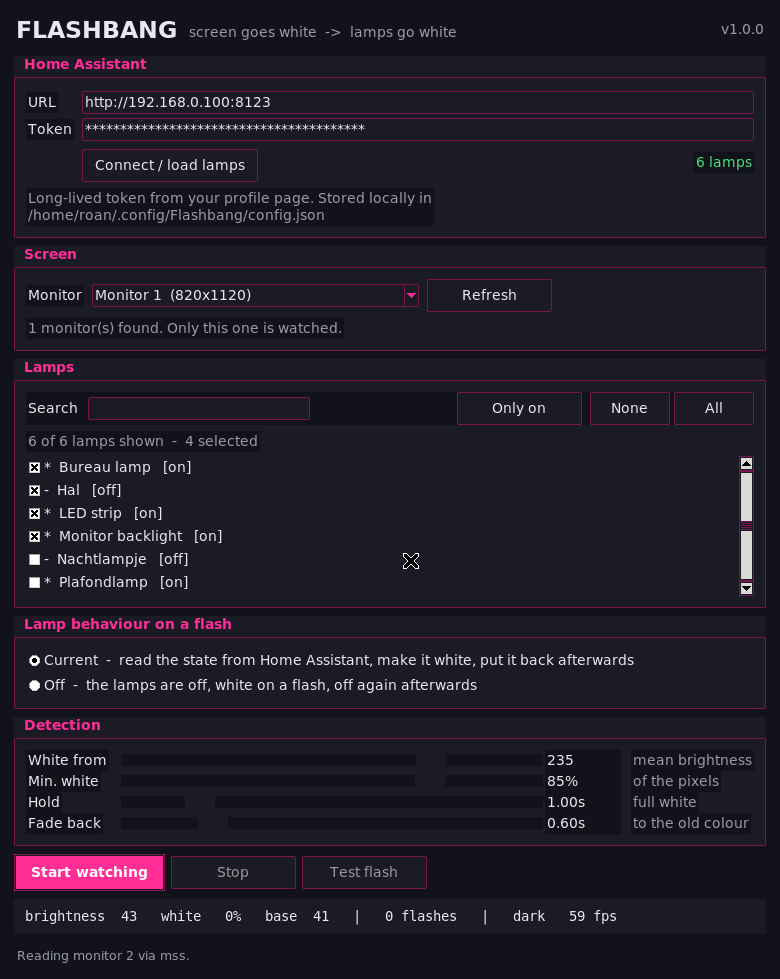
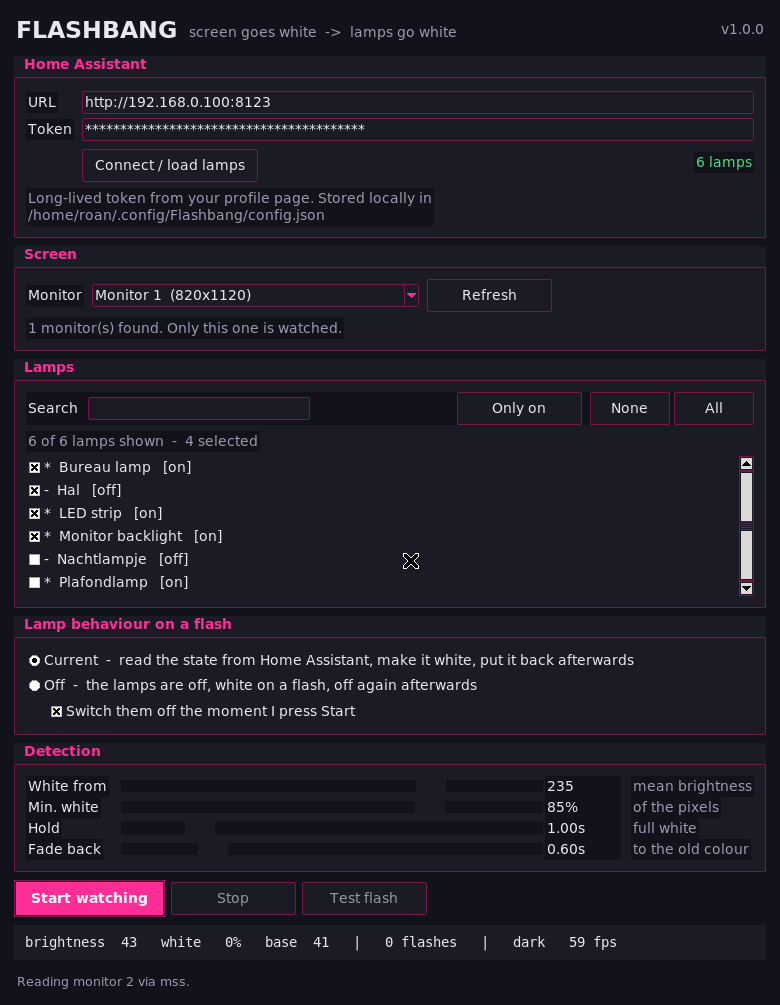
Off mode: switch the lamps off the moment watching starts
Pressing Start with 'Off' selected used to leave the lamps untouched until the
first flash. Now the controller turns the selected lamps off during start-up of
the loop (optionally - 'Switch them off the moment I press Start' - so the old
behaviour is still reachable). Stop now wakes the loop out of its frame pause
instead of letting it run out the sleep, so stopping is immediate.

diff --git a/Home-Assistant-Flashbang.py b/Home-Assistant-Flashbang.py
@@ -76,6 +76,7 @@ class Settings:
     monitor: int = 0
     entities: list = field(default_factory=list)
     mode: str = "current"          # "current" = restore what was there, "off" = lamps are off
+    off_on_start: bool = True       # mode "off": switch the lamps off the moment watching starts
     white_threshold: float = 235.0  # mean luminance (0-255) from which the screen counts as white
     white_ratio: float = 0.85       # fraction of pixels that must be near-white
     jump: float = 55.0              # required rise of the mean luminance vs. the frames before
@@ -95,6 +96,7 @@ class Settings:
             "monitor": int(self.monitor),
             "entities": list(self.entities),
             "mode": self.mode,
+            "off_on_start": bool(self.off_on_start),
             "white_threshold": float(self.white_threshold),
             "white_ratio": float(self.white_ratio),
             "jump": float(self.jump),
@@ -604,6 +606,7 @@ class Controller:
         self.events = events
         self._stop = threading.Event()
         self._test = threading.Event()
+        self._wake = threading.Event()
         self._thread = None
         self._client = None
         self._client_key = None
@@ -622,8 +625,10 @@ class Controller:
 
     def stop(self, wait: float = 2.0) -> None:
         self._stop.set()
+        self._wake.set()        # wake the loop if it is in the middle of its pause
         if self._thread:
             self._thread.join(timeout=wait)
+        self._thread = None
 
     def test_flash(self) -> None:
         self._test.set()
@@ -660,6 +665,12 @@ class Controller:
             return
 
         self._log("Reading monitor %d via %s." % (self.s.monitor + 1, backend))
+
+        # Mode "off": the lamps must be dark from the moment we start watching,
+        # not only after the first flash.
+        if self.s.mode == "off" and self.s.off_on_start:
+            self.set_off()
+
         detector = FlashDetector(self.s)
         frame_dt = 1.0 / max(5.0, float(self.s.fps_target))
         last = time.perf_counter()
@@ -704,10 +715,30 @@ class Controller:
 
             spent = time.perf_counter() - loop_start
             if spent < frame_dt:
-                time.sleep(frame_dt - spent)
+                self._wake.wait(frame_dt - spent)
+                self._wake.clear()
 
         grab.close()
         self._emit({"type": "stopped"})
+
+    # -- lamps ------------------------------------------------------------ #
+    def selected(self) -> list:
+        """The entity_ids the user ticked."""
+        return [e for e in (self.s.entities or []) if e]
+
+    def set_off(self) -> bool:
+        """Turn the selected lamps off (mode "off": they are dark while watching)."""
+        entities = self.selected()
+        if not entities:
+            return False
+        client = self._client_for()
+        if client is None:
+            return False
+        if client.turn_off(entities, transition=self.s.fade):
+            self._log("Lamps switched off - they stay dark until a flash.")
+            return True
+        self._log("Could not switch the lamps off.", "error")
+        return False
 
     def _flash(self) -> None:
         entities = [e for e in (self.s.entities or []) if e]
@@ -957,6 +988,10 @@ class FlashbangApp:
         ttk.Radiobutton(card, value="off", variable=self.mode_var,
                         text="Off  -  the lamps are off, white on a flash, off again "
                              "afterwards").pack(anchor="w", pady=(2, 0))
+        self.off_on_start_var = tk.BooleanVar(value=True)
+        ttk.Checkbutton(card, variable=self.off_on_start_var,
+                        text="Switch them off the moment I press Start"
+                        ).pack(anchor="w", padx=(22, 0), pady=(3, 0))
 
         # --- detection --------------------------------------------------- #
         card = self._card(outer, "Detection")
@@ -1029,6 +1064,7 @@ class FlashbangApp:
         self.url_var.set(s.hass_url)
         self.token_var.set(s.token)
         self.mode_var.set(s.mode if s.mode in ("current", "off") else "current")
+        self.off_on_start_var.set(bool(s.off_on_start))
         self.threshold_var.set(s.white_threshold)
         self.ratio_var.set(s.white_ratio * 100)
         self.hold_var.set(s.hold)
@@ -1040,6 +1076,7 @@ class FlashbangApp:
         s.hass_url = self.url_var.get().strip()
         s.token = self.token_var.get().strip()
         s.mode = self.mode_var.get()
+        s.off_on_start = bool(self.off_on_start_var.get())
         s.white_threshold = float(self.threshold_var.get())
         s.white_ratio = float(self.ratio_var.get()) / 100.0
         s.hold = float(self.hold_var.get())

diff --git a/tests/test_integration.py b/tests/test_integration.py
@@ -223,6 +223,92 @@ class FlashSequenceTests(unittest.TestCase):
 
 
 @unittest.skipUnless(HAVE_REQUESTS, "the 'requests' module is not installed")
+class StartWatchingTests(unittest.TestCase):
+    """Pressing Start with the 'off' mode must darken the lamps straight away."""
+
+    def setUp(self):
+        self.server = FakeHomeAssistant()
+        self.addCleanup(self.server.close)
+        real = fb.ScreenGrabber
+        fb.ScreenGrabber = _FakeGrabber
+        self.addCleanup(lambda: setattr(fb, "ScreenGrabber", real))
+
+    def controller(self, **kw):
+        settings = fb.Settings(hass_url=self.server.url, token="test-token",
+                               entities=["light.bureau", "light.plafond"],
+                               fade=0.3, fps_target=30.0)
+        for key, value in kw.items():
+            setattr(settings, key, value)
+        ctrl = fb.Controller(settings, queue.Queue())
+        self.addCleanup(ctrl.stop)
+        return ctrl
+
+    def wait_for_a_call(self, timeout=3.0):
+        deadline = time.time() + timeout
+        while time.time() < deadline:
+            calls = self.server.service_calls()
+            if calls:
+                return calls
+            time.sleep(0.02)
+        return []
+
+    def test_start_in_off_mode_switches_the_lamps_off(self):
+        ctrl = self.controller(mode="off")
+        ctrl.start()
+        calls = self.wait_for_a_call()
+        self.assertTrue(calls, "Start in 'off' mode never switched the lamps off")
+        path, payload = calls[0]
+        self.assertTrue(path.endswith("/turn_off"), path)
+        self.assertEqual(entities_in(calls[0]), {"light.bureau", "light.plafond"})
+        self.assertEqual(payload["transition"], 0.3)
+
+    def test_start_in_off_mode_does_not_wait_for_a_flash(self):
+        self.controller(mode="off").start()
+        self.wait_for_a_call()
+        # turn_off only: no /api/states read, so this is not a flash in disguise
+        self.assertEqual(self.server.paths(), ["/api/services/light/turn_off"])
+
+    def test_start_in_current_mode_leaves_the_lamps_alone(self):
+        self.controller(mode="current").start()
+        time.sleep(0.5)
+        self.assertEqual(self.server.service_calls(), [])
+
+    def test_unchecking_it_leaves_the_lamps_alone(self):
+        self.controller(mode="off", off_on_start=False).start()
+        time.sleep(0.5)
+        self.assertEqual(self.server.service_calls(), [])
+
+    def test_stop_returns_promptly(self):
+        ctrl = self.controller(mode="off", fps_target=60.0)
+        ctrl.start()
+        self.wait_for_a_call()
+        started = time.perf_counter()
+        ctrl.stop()
+        self.assertLess(time.perf_counter() - started, 0.5)
+
+
+class _FakeGrabber:
+    """Stands in for the screen so the watching loop can run headless.
+
+    It always reports a dark screen, so no flash can be triggered: every call
+    the server sees in these tests comes from the start/stop path.
+    """
+
+    def __init__(self, *args, **kwargs):
+        pass
+
+    def open(self):
+        return "fake"
+
+    def stats(self):
+        time.sleep(0.005)
+        return (40.0, 0.002)
+
+    def close(self):
+        pass
+
+
+@unittest.skipUnless(HAVE_REQUESTS, "the 'requests' module is not installed")
 class ConnectionTests(unittest.TestCase):
     """The 'Connect / load lamps' path, without needing Home Assistant."""
 

diff --git a/tests/test_flashbang.py b/tests/test_flashbang.py
@@ -134,6 +134,10 @@ class TestSettings(unittest.TestCase):
         for mode in ("current", "off"):
             self.assertEqual(fb.Settings.from_dict({"mode": mode}).mode, mode)
 
+    def test_off_on_start_defaults_to_on_and_survives(self):
+        self.assertTrue(fb.Settings().off_on_start)
+        self.assertFalse(fb.Settings.from_dict({"off_on_start": False}).off_on_start)
+
 
 # --------------------------------------------------------------------------- #
 # helpers

diff --git a/README.md b/README.md
@@ -95,8 +95,10 @@ plain text, like most local tools — that file stays on your own machine.
   flash (colour, brightness, temperature, effect), fires white, then puts
   everything back. Best for lamps that are usually on; a lamp that was dim and
   warm goes back to dim and warm.
-- **Off** — for lamps that are normally off. They turn on full white at the
-  flash, then go off again with the same fade.
+- **Off** — for lamps that are normally off. They go off **the moment you press
+  Start** (untick the checkbox if you would rather they stay as they are until
+  the first flash), turn on full white at the flash, then go off again with the
+  same fade.
 
 ---
 
@@ -174,11 +176,11 @@ Produces `dist\Flashbang.exe` (no console window). Drop a shortcut in
 python -m unittest discover -s tests -v
 ```
 
-51 tests: the flash detector (jump detection, cooldown, re-arming, warm-up),
+57 tests: the flash detector (jump detection, cooldown, re-arming, warm-up),
 the light payloads per colour mode, the snapshot/restore round-trip, config
-handling, and a full end-to-end flash sequence against a real local HTTP server
-that speaks the Home Assistant API. No display, Home Assistant or lamps
-required.
+handling, what Start/Stop does to the lamps in each mode, and a full end-to-end
+flash sequence against a real local HTTP server that speaks the Home Assistant
+API. No display, Home Assistant or lamps required.
 
 ## License
 
